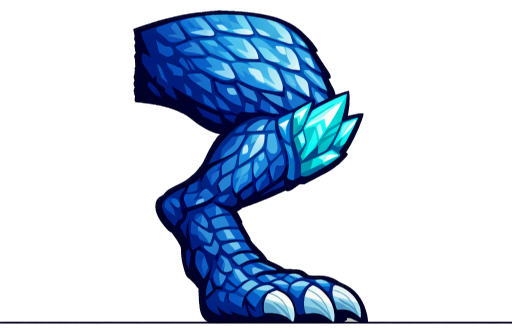
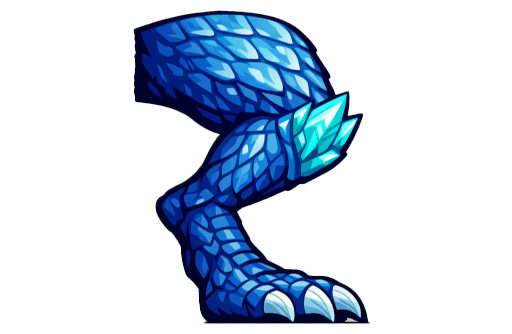
Rigg isoegla, som ogsaa kom inn
Isoegla ble ryddet automatisk av serveren mens den kjoerte - vaktposten
tok den med en gang filene dukket opp. Den er rigget som firbeint uten
hale, paa samme maate som ildoegla.

Fire figurer bruker naa egne PNG-deler: smaadrage, flygedrage, ildoegle
og isoegle. Resten tegnes fortsatt av spillet selv.

Spilt gjennom nivaa 3 og 4 uten feil.

diff --git a/js/rigs.js b/js/rigs.js
@@ -228,13 +228,33 @@ const ILDOEGLE = {
   ],
 };
 
+/** Isoegla gaar ogsaa paa fire, men har ingen hale. */
+const ISOEGLE = {
+  mappe: 'art/monstre/isoegle',
+  plassert: true,
+  deler: [
+    { navn: 'bein-bak', z: -25, beveg: 'gaa', fase: Math.PI, styrke: 0.3,
+      fest: [0.45, 0.08], paa: [-0.16, -0.52], h: 0.46 },
+    { navn: 'arm-bak', z: -15, beveg: 'gaa', fase: 0.6, styrke: 0.3,
+      fest: [0.55, 0.08], paa: [0.12, -0.50], h: 0.46 },
+    { navn: 'kropp', z: 0, beveg: 'duv', speil: true,
+      fest: [0.5, 0.5], paa: [0, -0.55], h: 0.32 },
+    { navn: 'bein-fram', z: 10, beveg: 'gaa', styrke: 0.3,
+      fest: [0.45, 0.08], paa: [-0.06, -0.50], h: 0.42 },
+    { navn: 'arm-fram', z: 20, beveg: 'gaa', fase: Math.PI + 0.6, styrke: 0.3,
+      fest: [0.45, 0.08], paa: [0.20, -0.48], h: 0.46 },
+    { navn: 'hode', z: 30, beveg: 'nikk',
+      fest: [0.12, 0.80], paa: [0.26, -0.64], h: 0.40 },
+  ],
+};
+
 export const MONSTER_RIGS = {
   // smaa monstre
   smaadrage: SMAADRAGE,
   flygedrage: FLYGEDRAGE,
   ildoegle: ILDOEGLE,
+  isoegle: ISOEGLE,
   steintroll: M('steintroll', klump),
-  isoegle:    M('isoegle', firbeint),
   skyggedrage: M('skyggedrage', flygende, { fart: 7 }),
 
   // sjefer
